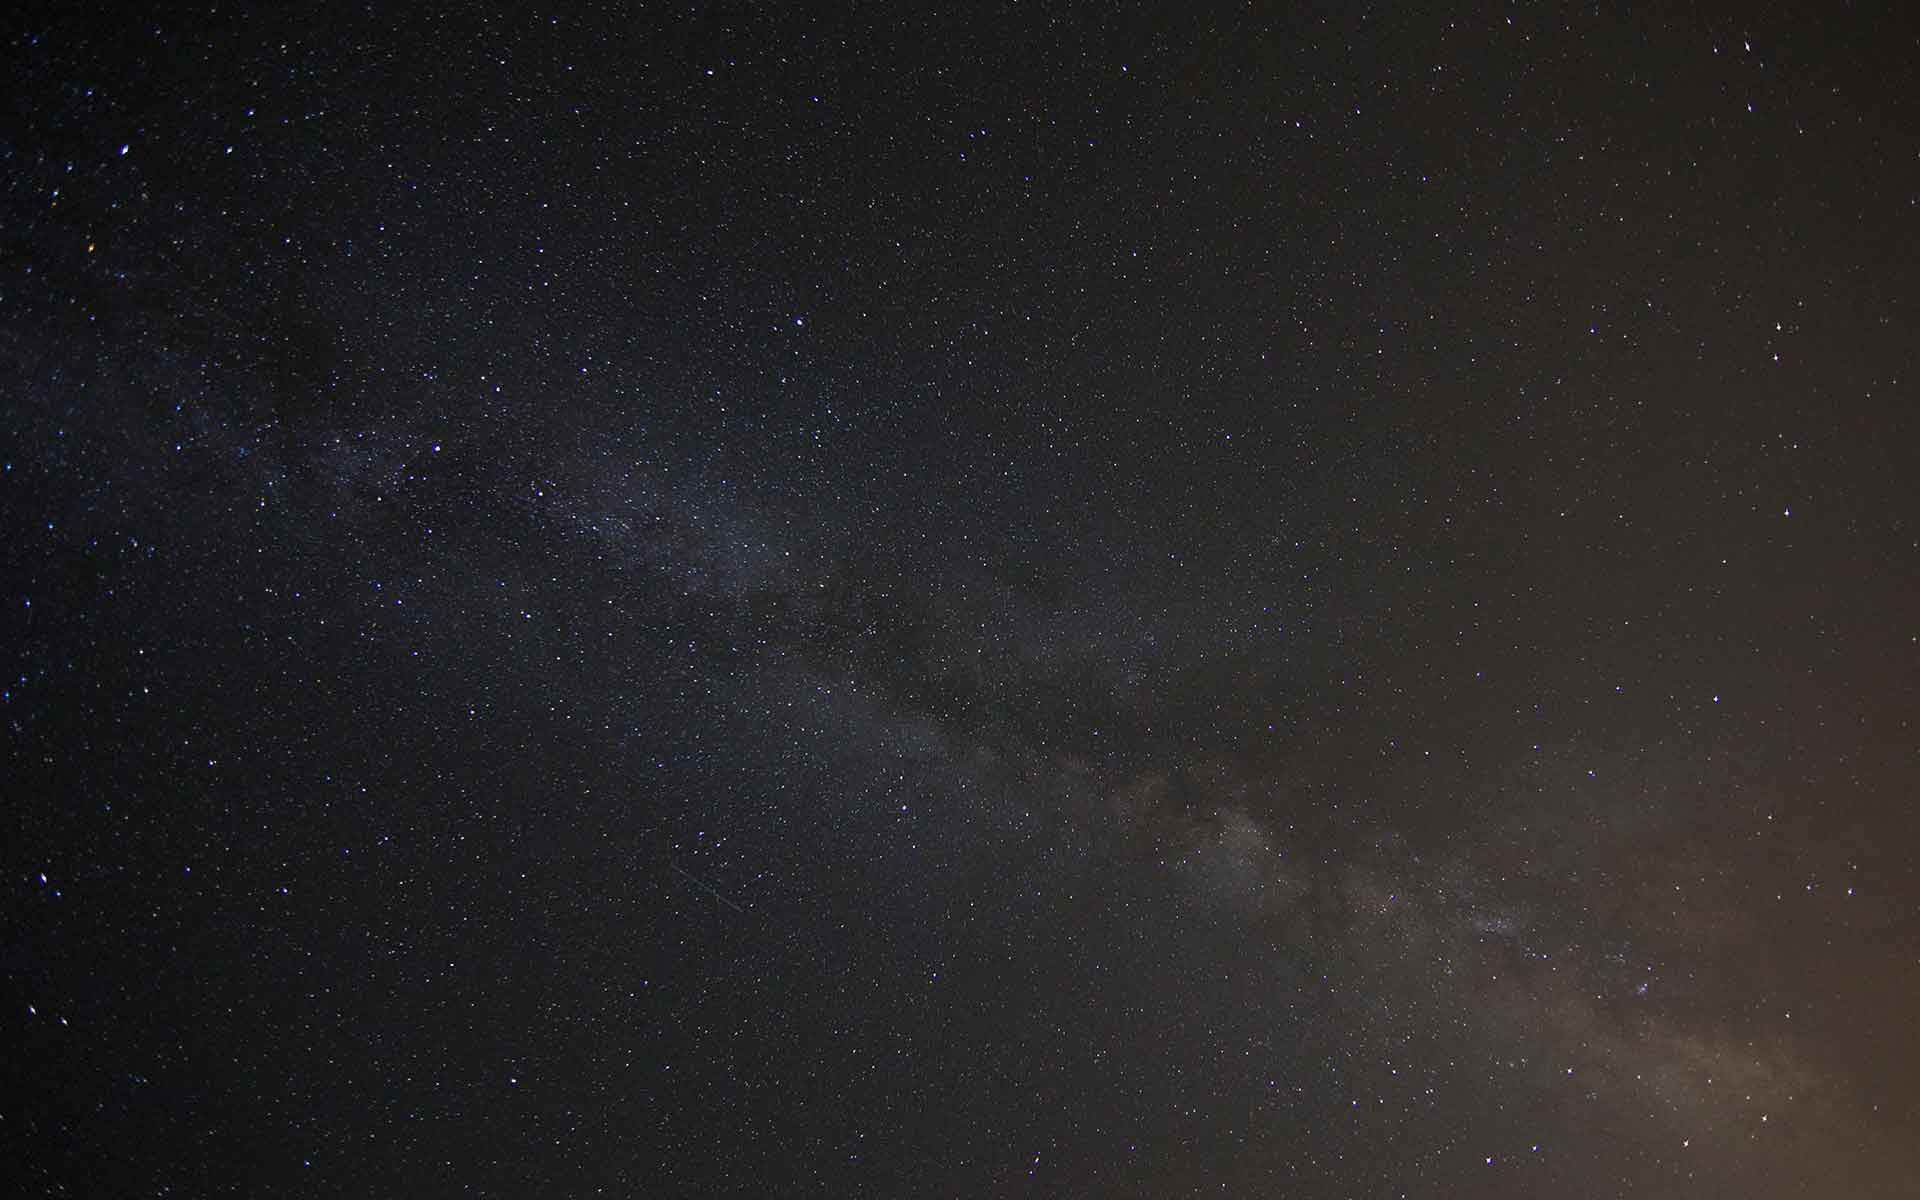
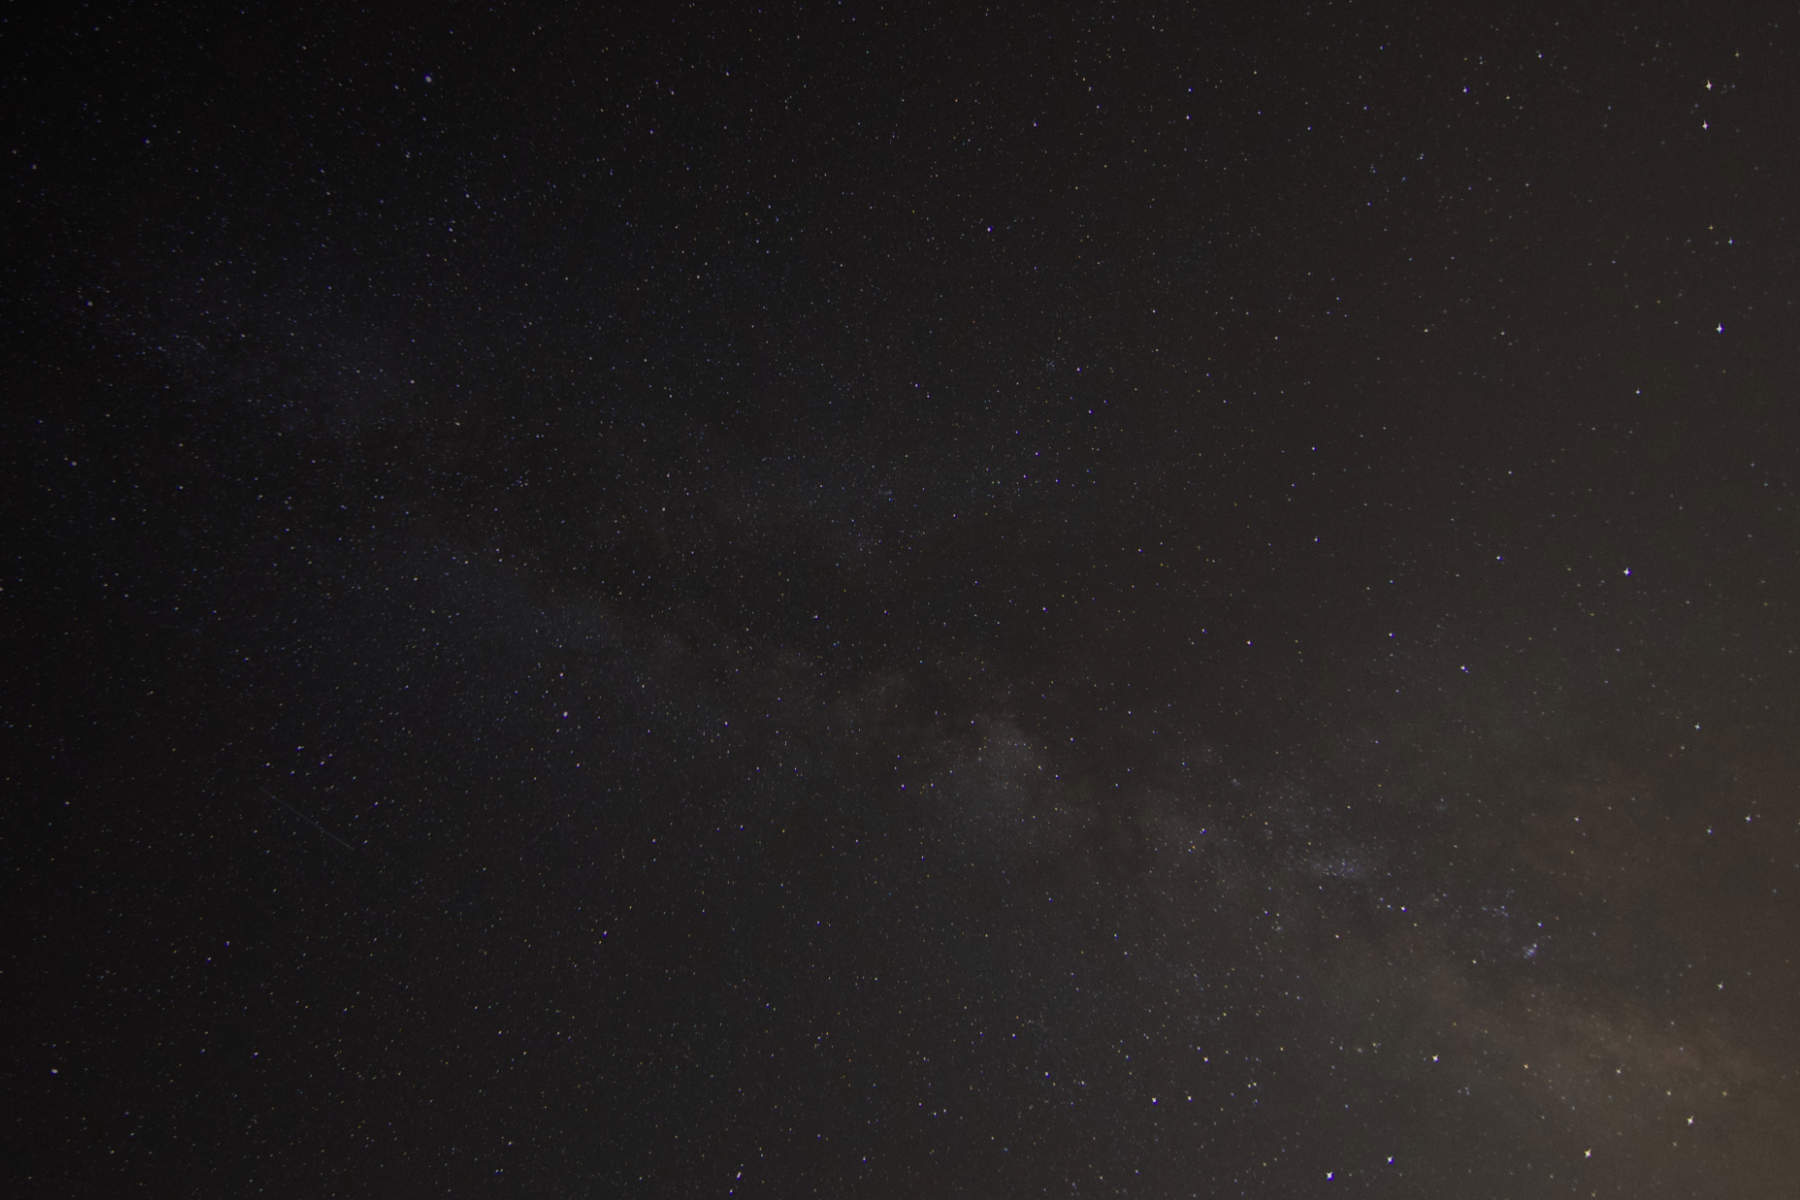
improved layout

diff --git a/src/assets/css/design.scss b/src/assets/css/design.scss
@@ -509,7 +509,7 @@ aside {
 
 .space-bg {
   @include background-cover;
-  background-image: url('../images/space-bg.jpg');
+  background-image: url('../images/space-black-bg.jpg');
   background-position: center;
   text-align: center;
   color: $theme-dark;
